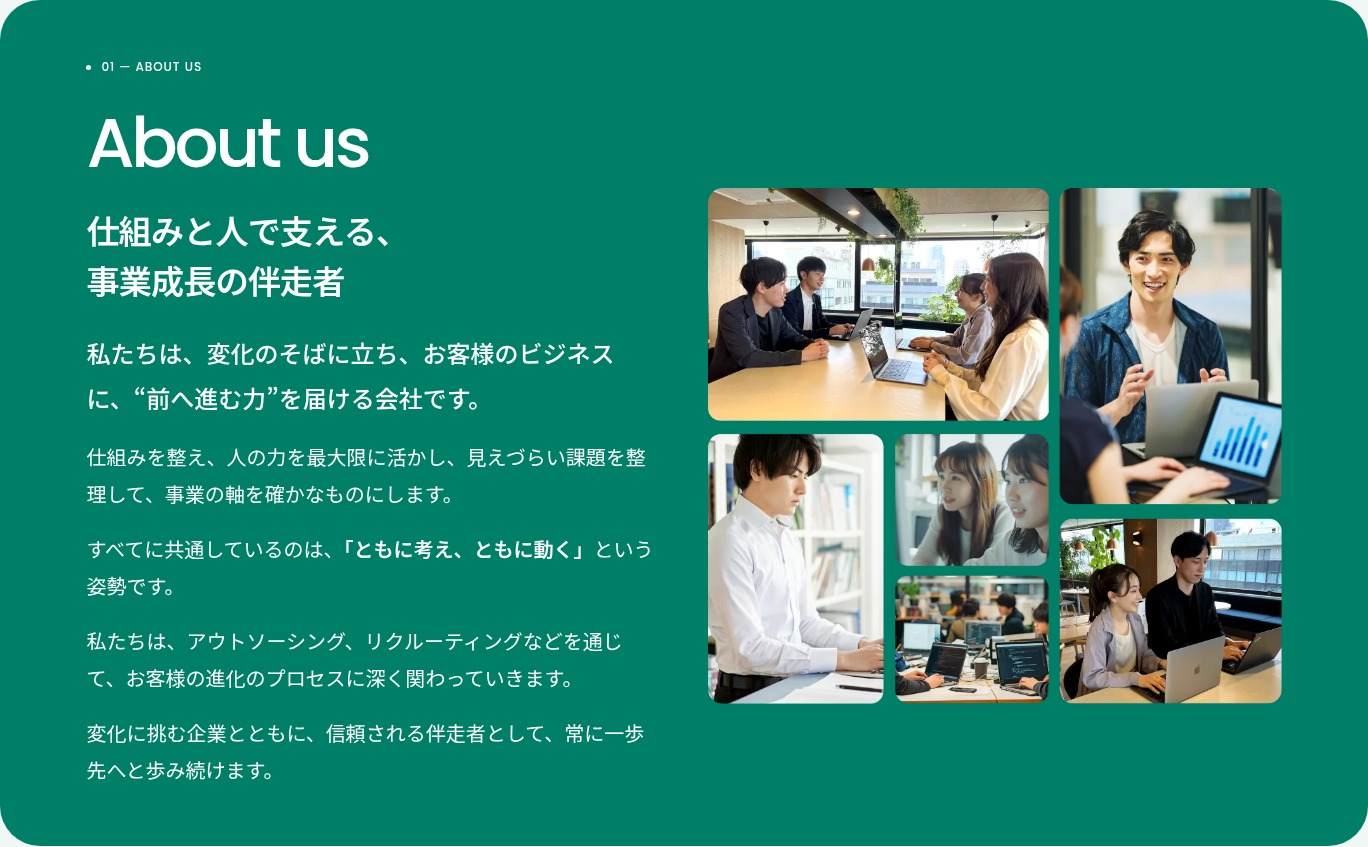
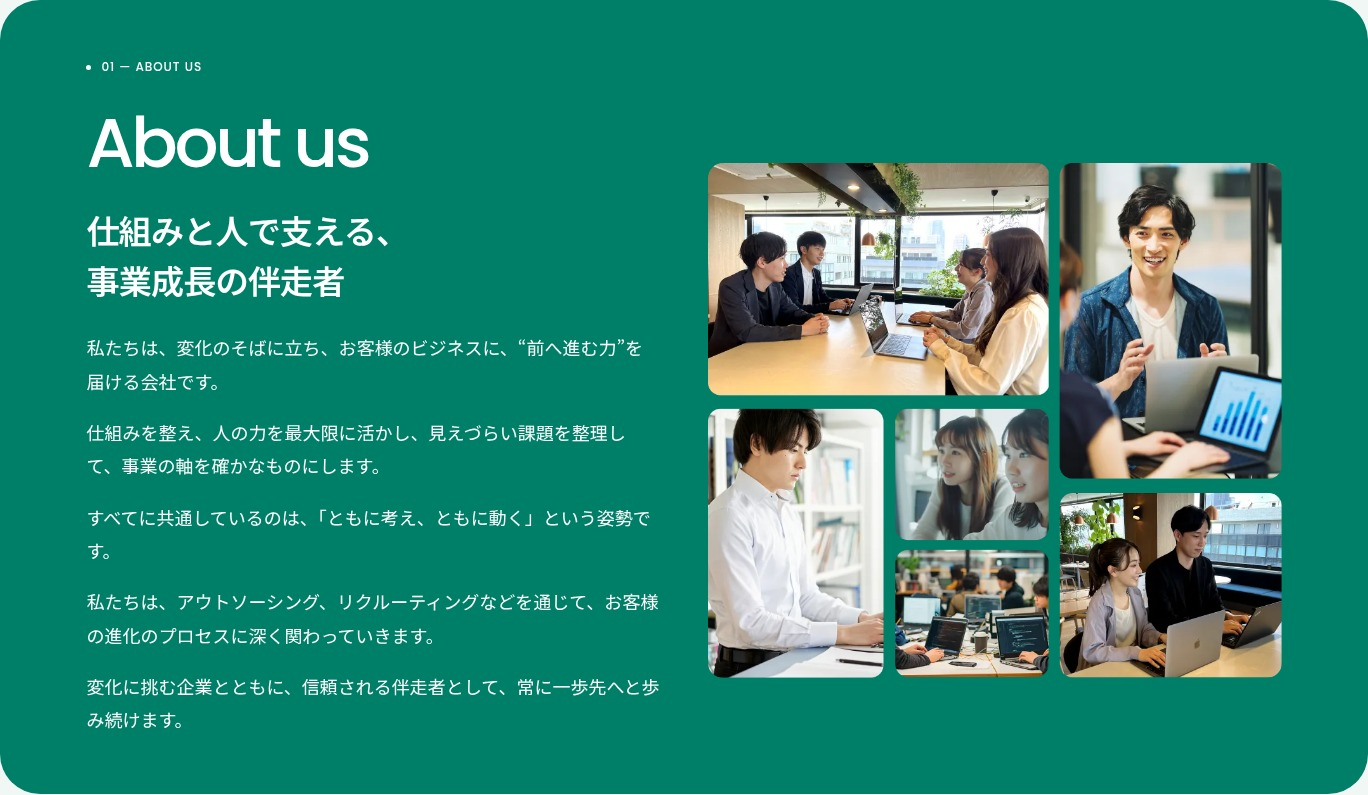
Unify and reduce About paragraph typography

diff --git a/assets/css/home-v2.css b/assets/css/home-v2.css
@@ -78,11 +78,9 @@ button:focus-visible,a:focus-visible { outline: 3px solid var(--brand); outline-
 .about-heading-ja { font-size:clamp(25px,2.3vw,35px); font-weight:600; line-height:1.5; letter-spacing:-.025em; margin-top:24px; }
 .about-layout { display:grid; grid-template-columns:1fr 1fr; gap:48px; align-items:center; }
 .about-copy { min-width:0; }
-.about-text p { font-size:20px; line-height:1.85; font-weight:400; }
+.about-text p { font-size:18px; line-height:1.85; font-weight:400; }
 .about-text p + p { margin-top:18px; }
-.about-text p:first-child { font-size:24px; line-height:1.85; font-weight:500; }
-.about-keyphrase,.about-text strong { white-space:nowrap; }
-.about-text strong { font-weight: 600; }
+.about-keyphrase { white-space:nowrap; }
 .about-image { margin:0; width:100%; }
 .about-image img { width: 100%; height: auto; border-radius: 15px; }
 .services { background:white; max-width:none; padding-top:58px; padding-bottom:32px; margin-top:48px; }
@@ -155,8 +153,7 @@ button:focus-visible,a:focus-visible { outline: 3px solid var(--brand); outline-
   .hero-en { font-size: 142px; }
   .about .display-heading { font-size:80px; }
   .about-heading-ja { font-size:36px; }
-  .about-text p { font-size:22px; }
-  .about-text p:first-child { font-size:27px; }
+  .about-text p { font-size:20px; }
 }
 @media (max-width:1100px) {
   .main-nav { gap: 24px; }
@@ -168,8 +165,7 @@ button:focus-visible,a:focus-visible { outline: 3px solid var(--brand); outline-
   .hero-symbol { width: 530px; height: 530px; left: 35%; top: 180px; }
   .about { padding-left:5%; padding-right:5%; }
   .about-layout { gap:30px; }
-  .about-text p { font-size:17px; }
-  .about-text p:first-child { font-size:20px; }
+  .about-text p { font-size:15px; }
   .service-kicker { font-size: 31px; }
   .service-copy h3 { font-size: 23px; }
   .service-copy > p:not(.service-kicker) { font-size:16px; }
@@ -216,8 +212,7 @@ button:focus-visible,a:focus-visible { outline: 3px solid var(--brand); outline-
   .about-heading-ja { margin-top:20px; font-size:25px; line-height:1.55; letter-spacing:-.035em; }
   .about-layout { display:flex; flex-direction:column; gap:26px; }
   .about-image { width:100%; margin:0; }
-  .about-text p { font-size:16px; line-height:1.85; }
-  .about-text p:first-child { font-size:18px; }
+  .about-text p { font-size:14px; line-height:1.85; }
   .about-text p + p { margin-top:16px; }
   .services { margin-top:30px; padding-top:42px; padding-bottom:24px; }
   .section-heading-row { display:block; margin:20px 0 30px; }

diff --git a/index.html b/index.html
@@ -12,7 +12,7 @@
   <link rel="stylesheet" href="assets/vendor/fonts/poppins-400.css">
   <link rel="stylesheet" href="assets/vendor/fonts/poppins-500.css">
   <link rel="stylesheet" href="assets/vendor/fonts/poppins-600.css">
-  <link rel="stylesheet" href="assets/css/home-v2.css?v=5">
+  <link rel="stylesheet" href="assets/css/home-v2.css?v=6">
   <script defer src="assets/js/home.js?v=5"></script>
 </head>
 <body>
@@ -55,7 +55,7 @@
           <div class="about-text">
             <p>私たちは、変化のそばに立ち、お客様のビジネスに、<span class="about-keyphrase">“前へ進む力”</span>を届ける会社です。</p>
             <p>仕組みを整え、人の力を最大限に活かし、見えづらい課題を整理して、事業の軸を確かなものにします。</p>
-            <p>すべてに共通しているのは、<strong>「ともに考え、ともに動く」</strong>という姿勢です。</p>
+            <p>すべてに共通しているのは、「ともに考え、ともに動く」という姿勢です。</p>
             <p>私たちは、アウトソーシング、リクルーティングなどを通じて、お客様の進化のプロセスに深く関わっていきます。</p>
             <p>変化に挑む企業とともに、信頼される伴走者として、常に一歩先へと歩み続けます。</p>
           </div>

diff --git a/contact.html b/contact.html
@@ -12,7 +12,7 @@
   <link rel="stylesheet" href="assets/vendor/fonts/poppins-400.css">
   <link rel="stylesheet" href="assets/vendor/fonts/poppins-500.css">
   <link rel="stylesheet" href="assets/vendor/fonts/poppins-600.css">
-  <link rel="stylesheet" href="assets/css/home-v2.css?v=5">
+  <link rel="stylesheet" href="assets/css/home-v2.css?v=6">
   <link rel="stylesheet" href="assets/css/pages.css?v=5">
   <script defer src="assets/js/home.js?v=5"></script>
   <script defer src="assets/js/contact.js?v=5"></script>

diff --git a/service/index.html b/service/index.html
@@ -12,7 +12,7 @@
   <link rel="stylesheet" href="../assets/vendor/fonts/poppins-400.css">
   <link rel="stylesheet" href="../assets/vendor/fonts/poppins-500.css">
   <link rel="stylesheet" href="../assets/vendor/fonts/poppins-600.css">
-  <link rel="stylesheet" href="../assets/css/home-v2.css?v=5">
+  <link rel="stylesheet" href="../assets/css/home-v2.css?v=6">
   <link rel="stylesheet" href="../assets/css/pages.css?v=5">
   <script defer src="../assets/js/home.js?v=5"></script>
 </head>

diff --git a/designs/REFINEMENTS.md b/designs/REFINEMENTS.md
@@ -2,6 +2,8 @@
 
 Aboutの全5段落を一続きに戻し、大きな写真と並べています。写真下の文言・セクション右上の補足ラベル・NEWS・独立した停止ボタンは削除しました。本文と写真を拡大し、サービス、会社概要、お問い合わせの上下の余白も調整しています。
 
+About本文は段落ごとのサイズ差と太字を外し、通常の本文サイズから2px小さくしました。PCは18px、1600px幅以上は20px、タブレットは15px、スマートフォンは14pxです。
+
 英語の帯はスクロールに依存せず、右から左へ一定速度で流れ続けます。折り返し位置に隙間や飛びが出ないよう、同じ文言を複製して繰り返します。帯自体のクリックまたはEnter・Spaceで停止と再開ができます。
 
 ロゴは初回描画、パーツの合体、ヘッダーのホバー再描画、会社概要のスクロール連動に対応しています。TOP背面ロゴのマウス追従は外しています。動画は使用していません。
